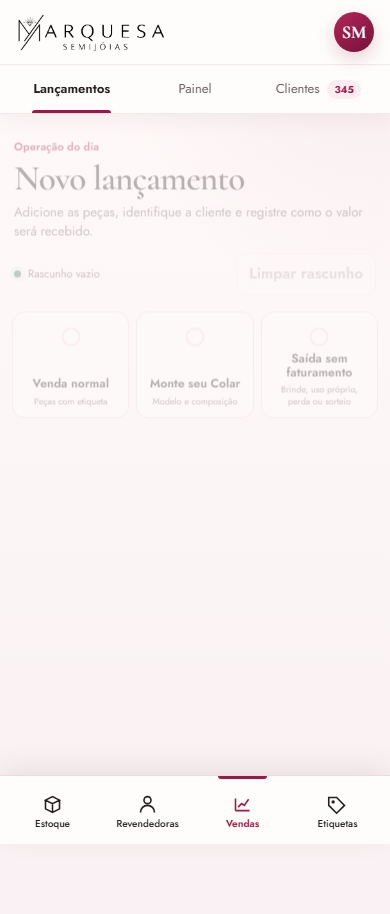
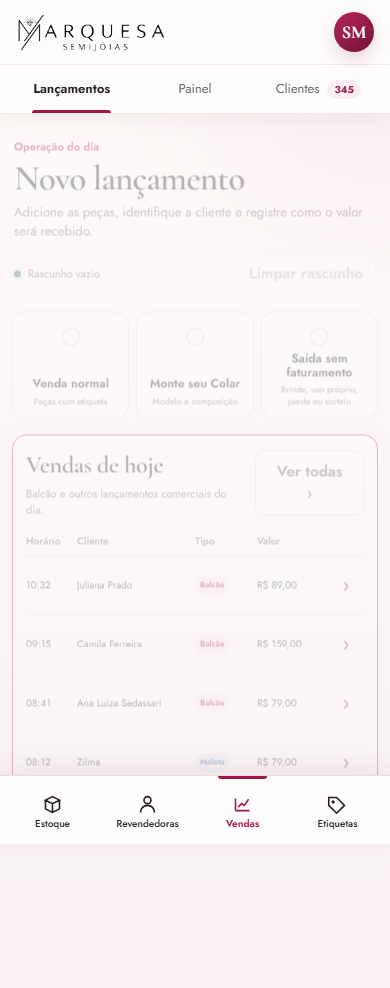
feat(ux): VEN-001 corrige fluxo e revisao da venda

diff --git a/docs/ux/03-screens/vendas/master.html b/docs/ux/03-screens/vendas/master.html
@@ -289,7 +289,8 @@
                 <div class="customer-empty" data-customer-empty>Selecione uma cliente ou continue identificando os outros dados da venda.</div>
                 <div class="form-grid">
                   <label>Data da venda<input type="date" value="2026-09-12" max="2026-09-12" data-sale-date></label>
-                  <label>Local ou canal<select data-sale-channel><option>Balcão</option><option>WhatsApp</option><option>Instagram</option><option>Feira ou evento</option></select></label>
+                  <label>Local ou canal<select data-sale-channel><option>Balcão</option><option>WhatsApp</option><option>Instagram</option><option>Grupo VIP</option><option>Feira</option><option>Maleta</option><option>Outro</option></select></label>
+                  <label class="wide" data-sale-channel-other hidden>Qual local ou canal?<input type="text" maxlength="60" placeholder="Informe onde a venda aconteceu" data-sale-channel-other-input></label>
                 </div>
                 <div class="step-next"><button class="button primary" type="button" data-open-step="payment">Continuar para pagamento</button></div>
                 </div>
@@ -315,17 +316,7 @@
               </div>
             </section>
             </div>
-            <footer class="sale-composer-footer"><strong data-footer-piece-count>0 peças</strong><div class="sale-totals"><span>Subtotal <b data-sale-subtotal>R$ 0,00</b></span><span>Desconto <b data-sale-discount>R$ 0,00</b></span><span>Total <b data-footer-total>R$ 0,00</b></span></div><button class="button primary" type="button" data-finalize-sale disabled>✓ Finalizar venda</button></footer>
-            </section>
-
-            <section class="data-section today-sales">
-              <div class="section-heading"><div><h2>Vendas de hoje</h2><p>Balcão e outros lançamentos comerciais do dia.</p></div><button class="button ghost" type="button" data-open-today-sales>Ver todas ›</button></div>
-              <div class="table-wrap"><table><thead><tr><th>Horário</th><th>Cliente</th><th>Tipo</th><th>Peças</th><th>Valor</th><th>Recebimento</th><th></th></tr></thead><tbody>
-                <tr class="sale-row today-sale-row" tabindex="0" aria-expanded="false" data-sale-id="venda-1057" data-detail-scope="hoje"><td>10:32</td><td><button type="button" class="client-name-link" data-open-client="Juliana Prado">Juliana Prado</button></td><td><span class="tag rose">Balcão</span></td><td>1</td><td>R$ 89,00</td><td><span class="status paid">Pago</span></td><td><button type="button" class="sale-open" aria-label="Expandir detalhes da venda de Juliana Prado">›</button></td></tr>
-                <tr class="sale-row today-sale-row" tabindex="0" aria-expanded="false" data-sale-id="venda-1058" data-detail-scope="hoje"><td>09:15</td><td><button type="button" class="client-name-link" data-open-client="Camila Ferreira">Camila Ferreira</button></td><td><span class="tag rose">Balcão</span></td><td>2</td><td>R$ 159,00</td><td><span class="status receivable">A receber</span></td><td><button type="button" class="sale-open" aria-label="Expandir detalhes da venda de Camila Ferreira">›</button></td></tr>
-                <tr class="sale-row today-sale-row" tabindex="0" aria-expanded="false" data-sale-id="venda-1056" data-detail-scope="hoje"><td>08:41</td><td><button type="button" class="client-name-link" data-open-client="Ana Luiza Sedassari">Ana Luiza Sedassari</button></td><td><span class="tag rose">Balcão</span></td><td>1</td><td>R$ 79,00</td><td><span class="status receivable">A receber</span></td><td><button type="button" class="sale-open" aria-label="Expandir detalhes da venda de Ana Luiza Sedassari">›</button></td></tr>
-                <tr class="sale-row today-sale-row" tabindex="0" aria-expanded="false" data-sale-id="venda-1055" data-detail-scope="hoje"><td>08:12</td><td><button type="button" class="client-name-link" data-open-client="Zilma">Zilma</button></td><td><span class="tag blue">Maleta</span></td><td>1</td><td>R$ 79,00</td><td><span class="status paid">Pago</span></td><td><button type="button" class="sale-open" aria-label="Expandir detalhes da venda de Zilma">›</button></td></tr>
-              </tbody></table></div>
+            <footer class="sale-composer-footer"><strong data-footer-piece-count>0 peças</strong><div class="sale-totals"><span>Subtotal <b data-sale-subtotal>R$ 0,00</b></span><span><i data-sale-adjustment-label>Desconto</i> <b data-sale-discount>R$ 0,00</b></span><span>Total <b data-footer-total>R$ 0,00</b></span></div><button class="button primary" type="button" data-finalize-sale disabled>✓ Finalizar venda</button></footer>
             </section>
           </div>
 
@@ -333,11 +324,21 @@
             <span class="success-seal" aria-hidden="true">✓</span><p class="context">Venda confirmada no protótipo</p><h2>Pronto. O lançamento ficou claro.</h2><p>Nenhum dado real foi gravado. Esta tela demonstra o retorno seguro após a confirmação.</p><div class="success-totals"><span>Total <b data-success-total>R$ 0,00</b></span><span>Recebido <b data-success-received>R$ 0,00</b></span><span>A receber <b data-success-receivable>R$ 0,00</b></span></div><button class="button primary" type="button" data-new-sale>Começar nova venda</button>
           </section>
 
+          <section class="data-section today-sales">
+              <div class="section-heading"><div><h2>Vendas de hoje</h2><p>Balcão e outros lançamentos comerciais do dia.</p></div><button class="button ghost" type="button" data-open-today-sales>Ver todas ›</button></div>
+              <div class="table-wrap"><table><thead><tr><th>Horário</th><th>Cliente</th><th>Tipo</th><th>Peças</th><th>Valor</th><th>Recebimento</th><th></th></tr></thead><tbody>
+                <tr class="sale-row today-sale-row" tabindex="0" aria-expanded="false" data-sale-id="venda-1057" data-detail-scope="hoje"><td>10:32</td><td><button type="button" class="client-name-link" data-open-client="Juliana Prado">Juliana Prado</button></td><td><span class="tag rose">Balcão</span></td><td>1</td><td>R$ 89,00</td><td><span class="status paid">Pago</span></td><td><button type="button" class="sale-open" aria-label="Expandir detalhes da venda de Juliana Prado">›</button></td></tr>
+                <tr class="sale-row today-sale-row" tabindex="0" aria-expanded="false" data-sale-id="venda-1058" data-detail-scope="hoje"><td>09:15</td><td><button type="button" class="client-name-link" data-open-client="Camila Ferreira">Camila Ferreira</button></td><td><span class="tag rose">Balcão</span></td><td>2</td><td>R$ 159,00</td><td><span class="status receivable">A receber</span></td><td><button type="button" class="sale-open" aria-label="Expandir detalhes da venda de Camila Ferreira">›</button></td></tr>
+                <tr class="sale-row today-sale-row" tabindex="0" aria-expanded="false" data-sale-id="venda-1056" data-detail-scope="hoje"><td>08:41</td><td><button type="button" class="client-name-link" data-open-client="Ana Luiza Sedassari">Ana Luiza Sedassari</button></td><td><span class="tag rose">Balcão</span></td><td>1</td><td>R$ 79,00</td><td><span class="status receivable">A receber</span></td><td><button type="button" class="sale-open" aria-label="Expandir detalhes da venda de Ana Luiza Sedassari">›</button></td></tr>
+                <tr class="sale-row today-sale-row" tabindex="0" aria-expanded="false" data-sale-id="venda-1055" data-detail-scope="hoje"><td>08:12</td><td><button type="button" class="client-name-link" data-open-client="Zilma">Zilma</button></td><td><span class="tag blue">Maleta</span></td><td>1</td><td>R$ 79,00</td><td><span class="status paid">Pago</span></td><td><button type="button" class="sale-open" aria-label="Expandir detalhes da venda de Zilma">›</button></td></tr>
+              </tbody></table></div>
+          </section>
+
           <dialog class="launch-dialog" id="price-dialog"><form method="dialog" data-price-form><button class="dialog-close" value="cancel" aria-label="Fechar">×</button><p class="context">Preço desta peça</p><h2 data-price-product>Editar preço final</h2><p>O preço padrão fica preservado. Informe quanto será cobrado nesta venda.</p><label>Preço padrão<input data-table-price-display readonly></label><label>Preço final<input type="number" min="0" step="0.01" required data-final-price></label><label>Motivo da alteração<input type="text" placeholder="Ex.: Grupo VIP" data-price-reason></label><p class="dialog-error" role="alert" data-price-error hidden>Informe o motivo quando o preço final for diferente.</p><div class="dialog-actions"><button class="button ghost" value="cancel">Cancelar</button><button class="button primary" type="submit" value="default">Aplicar preço</button></div></form></dialog>
 
           <dialog class="launch-dialog compact-dialog" id="clear-draft-dialog"><form method="dialog"><button class="dialog-close" value="cancel" aria-label="Fechar">×</button><p class="context">Limpar rascunho</p><h2>Descartar esta venda?</h2><p>Itens, cliente e pagamentos preenchidos serão removidos deste protótipo.</p><div class="dialog-actions"><button class="button ghost" value="cancel">Manter rascunho</button><button class="button primary" value="confirm" data-confirm-clear>Descartar</button></div></form></dialog>
 
-          <dialog class="launch-dialog compact-dialog" id="finalize-sale-dialog"><form method="dialog"><button class="dialog-close" value="cancel" aria-label="Fechar">×</button><p class="context">Revisão final</p><h2>Confirmar esta venda?</h2><p data-finalize-copy>Revise os valores antes de confirmar.</p><div class="review-values"><span>Total <b data-review-total></b></span><span>Recebido <b data-review-received></b></span><span>A receber <b data-review-receivable></b></span></div><div class="dialog-actions"><button class="button ghost" value="cancel">Voltar e revisar</button><button class="button primary" type="button" data-confirm-sale>Confirmar venda</button></div></form></dialog>
+          <dialog class="launch-dialog sale-review-dialog" id="finalize-sale-dialog"><form method="dialog"><button class="dialog-close" value="cancel" aria-label="Fechar">×</button><p class="context">Revisão final</p><h2>Confira antes de confirmar</h2><p data-finalize-copy>Cliente, peças, pagamentos e valores desta venda.</p><div class="review-sheet"><div class="review-meta"><div><span>Cliente</span><b data-review-customer>Não informada</b></div><div><span>Venda</span><b data-review-channel>Balcão</b><small data-review-date>12/09/2026</small></div></div><section class="review-section"><header><span>Itens da venda</span><b data-review-item-count>0 peças</b></header><ul data-review-items-list></ul></section><section class="review-section"><header><span>Pagamentos</span><b data-review-payment-count>Nenhum</b></header><ul data-review-payments-list></ul></section><div class="review-note" data-review-note-wrap hidden><span>Observação</span><p data-review-note></p></div><dl class="review-balance"><div><dt>Preço padrão</dt><dd data-review-standard></dd></div><div><dt data-review-adjustment-label>Desconto</dt><dd data-review-adjustment></dd></div><div class="review-total"><dt>Total</dt><dd data-review-total></dd></div><div><dt>Recebido</dt><dd data-review-received></dd></div><div><dt>A receber</dt><dd data-review-receivable></dd></div></dl></div><div class="dialog-actions"><button class="button ghost" value="cancel">Voltar e revisar</button><button class="button primary" type="button" data-confirm-sale>Confirmar venda</button></div></form></dialog>
 
           <dialog class="launch-dialog compact-dialog" id="new-customer-dialog"><form method="dialog" data-customer-form><button class="dialog-close" value="cancel" aria-label="Fechar">×</button><p class="context">Cadastro rápido</p><h2>Nova cliente</h2><label>Nome<input type="text" required data-new-customer-name></label><label>WhatsApp<input type="tel" placeholder="(19) 9 0000-0000" data-new-customer-phone></label><div class="dialog-actions"><button class="button ghost" value="cancel">Cancelar</button><button class="button primary" type="submit">Usar nesta venda</button></div></form></dialog>
 
@@ -457,7 +458,7 @@
         const entries = launchPayments();
         const paid = entries.reduce((sum, entry) => entry.querySelector('[data-payment-state]').value === 'paid' ? sum + Number(entry.querySelector('[data-payment-amount]').value || 0) : sum, 0);
         const planned = entries.reduce((sum, entry) => sum + Number(entry.querySelector('[data-payment-amount]').value || 0), 0);
-        return { total, tableTotal, discount: tableTotal - total, paid, planned, receivable: Math.max(0, total - paid), exceeded: planned > total + .005 };
+        return { total, tableTotal, discount: Math.max(0, tableTotal - total), surcharge: Math.max(0, total - tableTotal), paid, planned, receivable: Math.max(0, total - paid), exceeded: planned > total + .005 };
       }
 
       function setLaunchText(selector, value) {
@@ -526,7 +527,9 @@
         setLaunchText('[data-sale-receivable]', launchMoney(totals.receivable));
         setLaunchText('[data-footer-piece-count]', `${pieceCount} ${pieceCount === 1 ? 'peça' : 'peças'}`);
         setLaunchText('[data-sale-subtotal]', launchMoney(totals.tableTotal));
-        setLaunchText('[data-sale-discount]', launchMoney(totals.discount));
+        const hasSurcharge = totals.surcharge > .005;
+        setLaunchText('[data-sale-adjustment-label]', hasSurcharge ? 'Acréscimo' : 'Desconto');
+        setLaunchText('[data-sale-discount]', launchMoney(hasSurcharge ? totals.surcharge : totals.discount));
         setLaunchText('[data-footer-total]', launchMoney(totals.total));
         cartEmpty.hidden = items.length > 0;
         launchCart.hidden = items.length === 0;
@@ -614,9 +617,15 @@
       }
 
       function addCatalogProduct(product) {
-        const existing = launchItems().find((item) => item.dataset.sku === product.sku && Number(item.dataset.price) === product.price);
-        if (existing) existing.dataset.quantity = String(Number(existing.dataset.quantity) + 1);
-        else launchCart.append(createCartItem(product));
+        const existing = launchItems().find((item) => item.dataset.sku === product.sku);
+        if (existing) {
+          productSearch.value = '';
+          productResults.hidden = true;
+          existing.scrollIntoView({ block: 'nearest', behavior: matchMedia('(prefers-reduced-motion: reduce)').matches ? 'auto' : 'smooth' });
+          showLaunchToast(`${product.name} já está na venda. Use + para aumentar a quantidade.`);
+          return;
+        }
+        launchCart.append(createCartItem(product));
         productSearch.value = '';
         productResults.hidden = true;
         updateLaunch();
@@ -700,7 +709,7 @@
         note.hidden = !changed;
         note.textContent = !changed ? '' : discount > 0
           ? `Desconto de ${launchMoney(discount)} por peça · padrão ${launchMoney(tablePrice)} · ${reason}`
-          : `Preço ajustado · padrão ${launchMoney(tablePrice)} · ${reason}`;
+          : `Acréscimo de ${launchMoney(Math.abs(discount))} por peça · padrão ${launchMoney(tablePrice)} · ${reason}`;
         editingCartItem.classList.toggle('has-discount', discount > .005);
         editingCartItem.querySelector('.item-price small').textContent = discount > .005 ? 'Com desconto' : 'Preço final';
         priceDialog.close();
@@ -771,6 +780,17 @@
         event.target.reset();
       });
 
+      const saleChannel = launchScreen.querySelector('[data-sale-channel]');
+      const saleChannelOther = launchScreen.querySelector('[data-sale-channel-other]');
+      const saleChannelOtherInput = launchScreen.querySelector('[data-sale-channel-other-input]');
+      function updateSaleChannel() {
+        const other = saleChannel.value === 'Outro';
+        saleChannelOther.hidden = !other;
+        if (!other) saleChannelOtherInput.value = '';
+        updateLaunch();
+      }
+      saleChannel.addEventListener('change', updateSaleChannel);
+
       function clearLaunchDraft() {
         launchCart.innerHTML = '';
         paymentList.innerHTML = '';
@@ -780,6 +800,8 @@
         launchScreen.querySelector('[data-customer-search]').value = '';
         launchScreen.querySelector('[data-sale-date]').value = '2026-09-12';
         launchScreen.querySelector('[data-sale-channel]').selectedIndex = 0;
+        saleChannelOther.hidden = true;
+        saleChannelOtherInput.value = '';
         launchScreen.querySelector('[data-sale-note]').value = '';
         launchWorkspace.hidden = false;
         launchSuccess.hidden = true;
@@ -802,10 +824,44 @@
 
       finalizeSaleButton.addEventListener('click', () => {
         const totals = launchTotals();
+        const items = launchItems();
+        const payments = launchPayments();
+        const pieceCount = items.reduce((sum, item) => sum + Number(item.dataset.quantity), 0);
+        const customer = selectedCustomer.hidden ? 'Não informada' : launchScreen.querySelector('[data-customer-name]').textContent;
+        const channel = saleChannel.value === 'Outro' ? saleChannelOtherInput.value.trim() || 'Outro' : saleChannel.value;
+        const note = launchScreen.querySelector('[data-sale-note]').value.trim();
+        const formatDate = (iso) => iso ? iso.split('-').reverse().join('/') : 'Não informada';
+        setLaunchText('[data-review-customer]', customer);
+        setLaunchText('[data-review-channel]', channel);
+        setLaunchText('[data-review-date]', formatDate(launchScreen.querySelector('[data-sale-date]').value));
+        setLaunchText('[data-review-item-count]', `${pieceCount} ${pieceCount === 1 ? 'peça' : 'peças'}`);
+        setLaunchText('[data-review-payment-count]', payments.length ? `${payments.length} ${payments.length === 1 ? 'registro' : 'registros'}` : 'Nenhum');
+        const reviewItems = launchScreen.querySelector('[data-review-items-list]');
+        reviewItems.innerHTML = items.map((item) => {
+          const quantity = Number(item.dataset.quantity);
+          return `<li><span><b>${item.dataset.name}</b><small>${quantity} × ${launchMoney(Number(item.dataset.price))}</small></span><strong>${launchMoney(Number(item.dataset.price) * quantity)}</strong></li>`;
+        }).join('');
+        const reviewPayments = launchScreen.querySelector('[data-review-payments-list]');
+        reviewPayments.innerHTML = payments.length ? payments.map((entry) => {
+          const amount = Number(entry.querySelector('[data-payment-amount]').value || 0);
+          const method = entry.querySelector('[data-payment-method]').value;
+          const pending = entry.querySelector('[data-payment-state]').value === 'pending';
+          const due = entry.querySelector('[data-payment-due-input]').value;
+          const installments = entry.querySelector('[data-payment-installments] select').value;
+          const detail = pending ? `Pendente · vence ${formatDate(due)}` : `Pago hoje${method === 'Cartão de crédito' ? ` · ${installments}` : ''}`;
+          return `<li><span><b>${method}</b><small>${detail}</small></span><strong>${launchMoney(amount)}</strong></li>`;
+        }).join('') : '<li class="review-empty">Nenhum pagamento foi informado.</li>';
+        const reviewNoteWrap = launchScreen.querySelector('[data-review-note-wrap]');
+        reviewNoteWrap.hidden = !note;
+        setLaunchText('[data-review-note]', note);
+        const hasSurcharge = totals.surcharge > .005;
+        setLaunchText('[data-review-standard]', launchMoney(totals.tableTotal));
+        setLaunchText('[data-review-adjustment-label]', hasSurcharge ? 'Acréscimo' : 'Desconto');
+        setLaunchText('[data-review-adjustment]', launchMoney(hasSurcharge ? totals.surcharge : totals.discount));
         setLaunchText('[data-review-total]', launchMoney(totals.total));
         setLaunchText('[data-review-received]', launchMoney(totals.paid));
         setLaunchText('[data-review-receivable]', launchMoney(totals.receivable));
-        launchScreen.querySelector('[data-finalize-copy]').textContent = `${launchItems().length} ${launchItems().length === 1 ? 'item' : 'itens'} serão confirmados uma única vez. Esta demonstração não grava dados reais.`;
+        launchScreen.querySelector('[data-finalize-copy]').textContent = 'Confira os dados que serão confirmados nesta venda. Esta demonstração não grava dados reais.';
         finalizeSaleDialog.showModal();
       });
       launchScreen.querySelector('[data-confirm-sale]').addEventListener('click', (event) => {

diff --git a/docs/ux/03-screens/vendas/master.css b/docs/ux/03-screens/vendas/master.css
@@ -468,6 +468,7 @@ td strong { color: var(--wine-700); }
 .sale-totals { display: flex; align-items: center; gap: 0; }
 .sale-totals span { padding: 0 18px; border-right: 1px solid var(--line); color: var(--muted); font-size: 10px; }
 .sale-totals span:first-child { padding-left: 0; }
+.sale-totals i { font-style: normal; }
 .sale-totals b { margin-left: 7px; color: var(--wine-700); font-size: 13px; }
 .sale-totals span:last-child { border-right: 0; }
 .sale-totals span:last-child b { color: var(--wine-900); font-size: 22px; font-weight: 550; }
@@ -503,6 +504,33 @@ td strong { color: var(--wine-700); }
 .dialog-error { padding: 8px 10px; border-radius: 7px; background: var(--warning-bg); color: var(--warning) !important; }
 .dialog-actions { display: flex; justify-content: flex-end; gap: 8px; margin-top: 5px; }
 .compact-dialog { width: min(470px, calc(100% - 28px)); }
+.sale-review-dialog { width: min(720px, calc(100% - 28px)); }
+.sale-review-dialog form { max-height: min(88vh, 760px); overflow-y: auto; }
+.review-sheet { overflow: hidden; border: 1px solid var(--rose-200); border-radius: 11px; background: var(--paper); }
+.review-meta { display: grid; grid-template-columns: 1.25fr .75fr; gap: 1px; background: var(--line-soft); }
+.review-meta > div { padding: 12px 14px; background: var(--rose-050); }
+.review-meta span, .review-meta b, .review-meta small { display: block; }
+.review-meta span, .review-section header span, .review-note span { color: var(--muted); font-size: 9px; }
+.review-meta b { margin-top: 2px; color: var(--ink); font-size: 13px; }
+.review-meta small { margin-top: 2px; color: var(--muted); font-size: 9px; }
+.review-section, .review-note { padding: 12px 14px; border-top: 1px solid var(--line-soft); }
+.review-section header { display: flex; align-items: center; justify-content: space-between; gap: 12px; }
+.review-section header b { color: var(--wine-700); font-size: 10px; }
+.review-section ul { display: grid; gap: 7px; margin: 9px 0 0; padding: 0; list-style: none; }
+.review-section li { display: flex; align-items: center; justify-content: space-between; gap: 14px; }
+.review-section li span, .review-section li b, .review-section li small { display: block; }
+.review-section li span { min-width: 0; }
+.review-section li b { overflow: hidden; font-size: 11px; text-overflow: ellipsis; white-space: nowrap; }
+.review-section li small { margin-top: 1px; color: var(--muted); font-size: 9px; }
+.review-section li > strong { flex: 0 0 auto; color: var(--wine-700); font-size: 11px; }
+.review-section .review-empty { justify-content: flex-start; color: var(--muted); font-size: 10px; }
+.review-note p { margin-top: 3px; color: var(--ink); line-height: 1.4; }
+.review-balance { display: grid; grid-template-columns: repeat(5, minmax(0, 1fr)); gap: 1px; margin: 0; border-top: 1px solid var(--line-soft); background: var(--line-soft); }
+.review-balance > div { min-width: 0; padding: 11px 10px; background: white; }
+.review-balance dt { color: var(--muted); font-size: 8px; }
+.review-balance dd { margin: 3px 0 0; color: var(--wine-700); font-size: 13px; font-variant-numeric: tabular-nums; font-weight: 650; white-space: nowrap; }
+.review-balance .review-total { background: var(--rose-050); }
+.review-balance .review-total dd { color: var(--wine-900); font-size: 16px; }
 .launch-toast { position: fixed; z-index: 60; right: 24px; bottom: 24px; max-width: 360px; padding: 12px 15px; border-radius: 10px; background: var(--ink); color: white; box-shadow: 0 12px 32px rgba(36,29,32,.2); font-size: 12px; }
 
 .metric-row.compact { margin-bottom: 16px; }
@@ -917,6 +945,10 @@ td strong { color: var(--wine-700); }
   .success-totals span, .review-values span { display: flex; align-items: center; justify-content: space-between; }
   .success-totals b, .review-values b { margin: 0; }
   .launch-dialog form { padding: 22px 18px 18px; }
+  .sale-review-dialog form { max-height: 90vh; }
+  .review-meta { grid-template-columns: 1fr 1fr; }
+  .review-balance { grid-template-columns: repeat(2, minmax(0, 1fr)); }
+  .review-balance .review-total { grid-column: 1 / -1; grid-row: 2; }
   .dialog-actions { flex-direction: column-reverse; }
   .dialog-actions .button { width: 100%; min-height: 44px; }
   .launch-toast { right: 12px; bottom: calc(80px + env(safe-area-inset-bottom)); left: 12px; max-width: none; }

diff --git a/docs/ux/03-screens/vendas/rules.md b/docs/ux/03-screens/vendas/rules.md
@@ -55,14 +55,20 @@ limite de itens por página, o que não pode ser editado inline.
 | UX-VEN-018 | em `Vendas do período`, toda venda com saldo cobrável usa o rótulo `A RECEBER` em vinho; o quanto já foi recebido aparece nos valores do detalhe, e a ação `Pendente` permanece amarela | comunicar a ação necessária sem criar dois rótulos para vendas que ainda exigem cobrança | sim · Gustavo, 12/09/2026 |
 | UX-VEN-019 | os detalhes das vendas podem ser expandidos e recolhidos de forma independente, mantendo quantas linhas abertas forem úteis; trocar página ou contexto recolhe todos | permitir comparação entre vendas sem manter detalhes ligados a dados que acabaram de mudar | sim · Gustavo, 12/09/2026 |
 | UX-VEN-020 | `Vendas do período` mostra até 10 vendas por página | aumentar a visão comparativa sem transformar a lista em rolagem excessiva | sim · Gustavo, 12/09/2026 |
-| UX-VEN-021 | `Venda normal` usa uma superfície contínua: itens e cliente lado a lado no desktop, sequência vertical no celular e Pagamento como fechamento; no mobile, total e `Finalizar venda` permanecem alcançáveis acima da navegação | preservar velocidade de balcão sem esconder a relação entre peça, cliente, dinheiro e confirmação | sim · Gustavo, 12/09/2026 |
-| UX-VEN-022 | a estrutura visual aprovada para `Venda normal` é a do mockup de pagamento misto: uma única moldura com itens + cliente, pagamento integrado, rodapé de totais e `Vendas de hoje` logo abaixo; cores, tipografia, espaçamento e componentes usam a identidade nova do sistema | preservar o fluxo já compreendido sem voltar à identidade anterior nem fragmentar a operação em cartões independentes | sim · Gustavo, 12/09/2026 |
+| UX-VEN-021 | o lançamento começa reduzido no seletor de tipo; `Venda normal` revela uma superfície contínua com Itens, Cliente e Pagamento em etapas recolhíveis; no mobile, total e `Finalizar venda` permanecem alcançáveis acima da navegação | preservar velocidade de balcão sem expor um formulário vazio e longo | sim · Gustavo, 12/09/2026 |
+| UX-VEN-022 | `Vendas de hoje` permanece visível abaixo dos tipos de lançamento, mesmo antes de abrir `Venda normal`; cores, tipografia, espaçamento e componentes usam a identidade nova do sistema | manter o contexto do dia disponível sem obrigar a começar uma operação | sim · Gustavo, 12/09/2026 |
+| UX-VEN-023 | tentar adicionar novamente um SKU que já está no carrinho não cria linha nem aumenta quantidade; a interface orienta usar o controle `+` da peça | impedir aumento acidental por clique repetido em `Adicionar` | sim · Gustavo, 12/09/2026 |
+| UX-VEN-024 | preço final abaixo do padrão aparece como `Desconto`; preço final acima aparece como `Acréscimo`; ambos são valores positivos e o motivo continua obrigatório | impedir desconto negativo e deixar explícito o sentido da alteração | sim · Gustavo, 12/09/2026 |
+| UX-VEN-025 | a confirmação final mostra cliente, data, local/canal, itens, pagamentos, vencimentos, observação, preço padrão, desconto/acréscimo, total, recebido e a receber | permitir conferência completa antes de registrar a venda | sim · Gustavo, 12/09/2026 |
+| UX-VEN-026 | `Local ou canal` oferece os termos já usados no sistema: Balcão, WhatsApp, Instagram, Grupo VIP, Feira, Maleta e Outro com texto livre; a distinção futura entre canal e origem estrutural continua em `VEN-Q013` | usar o vocabulário operacional existente sem fingir que a modelagem de origem já foi decidida | sim · Gustavo, 12/09/2026 |
 
 ## Desconto na Nova Venda
 
 - a pessoa edita o `preço final por peça`; não digita simultaneamente preço e
   desconto;
-- `desconto unitário = preço de tabela congelado − preço final cobrado`;
+- quando `preço padrão > preço final`, `desconto unitário = preço padrão − preço final`;
+- quando `preço final > preço padrão`, `acréscimo unitário = preço final − preço padrão`;
+- desconto e acréscimo nunca são exibidos como valor negativo;
 - alterar o preço exige motivo antes da finalização;
 - preço de tabela continua pertencendo ao catálogo e não é alterado pela venda;
 - quantidade maior que um pode compartilhar o mesmo preço final e motivo;
